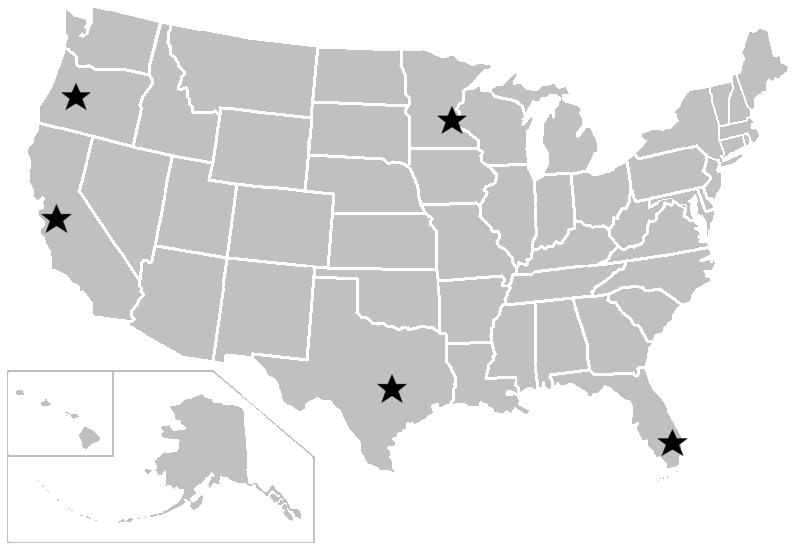
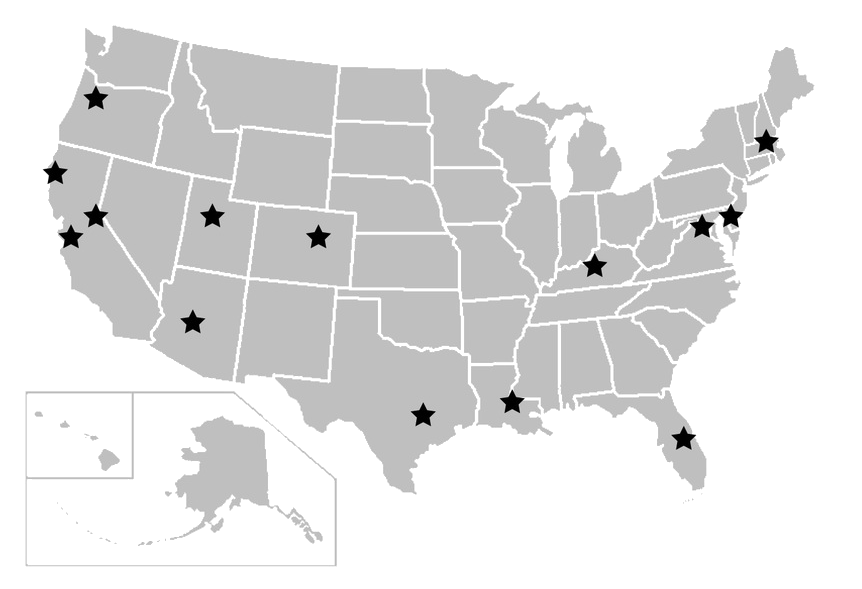
Updated home page with new information and SQL

diff --git a/stylesheets/main.css b/stylesheets/main.css
@@ -1,1 +1,1 @@
-@import url("https://fonts.googleapis.com/css?family=Josefin+Sans");@import url("https://fonts.googleapis.com/css?family=Josefin+Sans");@import url("https://fonts.googleapis.com/css?family=Josefin+Sans");@import url("https://fonts.googleapis.com/css?family=Josefin+Sans");@import url("https://fonts.googleapis.com/css?family=Josefin+Sans");#regform{background-color:white;line-height:20px;align-content:space-between;padding:20px;padding-top:10px;width:600px;margin:0 auto;margin-top:25px;margin-bottom:25px;font-size:16px;z-index:1}#regform form{display:flex;flex-direction:column;justify-content:center;width:85%;margin:auto}#regform p{font-size:1em;text-align:center}#regform label{line-height:30px;margin-right:4px;font-size:16px}#regform input,#regform option,#regform select{width:100%;height:20px}#regform input[type=submit]{width:40%;height:50px;margin:auto;margin-top:30px}#regform #title{color:black;font-size:20px;position:absolute}#regform input[type=textarea]{height:100px}#regtitle{font-size:30px;text-align:center;display:flex;flex-direction:column;justify-content:center;margin-bottom:30px}#regtitle p{font-size:16px;margin:0}#reg_main_content{height:auto;padding-bottom:100px}#pay{width:100px;height:auto;margin:20px;cursor:pointer}.button{color:#0d2063;background-color:#faf7f5;border-radius:6px;border:solid gainsboro 2px;font-family:'Josefin Sans', sans-serif;font-size:20px;padding:5px;padding-top:10px;margin-top:10px}body{font-family:'Josefin Sans', sans-serif}strong{font-weight:bold;color:black}#schedule_main_content{width:800px;height:2300px;margin-left:100px}#schedule_main_content p{font-size:.75em;text-align:left}#schedule_main_content table{border-spacing:0px;width:100%;border:solid black 1px}#schedule_main_content td{width:700px;height:auto;padding-left:15px;padding-right:25px;text-align:left;font-size:.5em;border:solid black 1px}#schedule_main_content h4{color:#0d2063}a{text-decoration:none;color:#0d2063}a:visited{color:#0d2063}#anchor_bar{font-family:'Josefin Sans', sans-serif;font-size:25.5px;float:right;margin-right:150px;margin-left:100px;margin-top:120px;margin-bottom:50px;color:#0d2063}#scheduletitle{font-size:30px;text-align:left}#headspace{margin-top:0px;border:solid #faf7f5 1px}#schedule_main_content{height:auto;padding-bottom:100px}#schedule_main_content table{width:500px;height:200px;text-align:center}#schedule_main_content table td{padding:5px}#register_button{color:white;padding:10px;padding-bottom:5px;background-color:#0d2063;border:none}h4{text-transform:uppercase}body{font-family:'Josefin Sans', sans-serif}.item{height:auto}.item p{margin-left:5px}.price{display:flex;flex-direction:row;align-items:center;height:40px}.email{display:flex;flex-direction:column;justify-content:space-around;align-items:center;height:100px;padding:0px !important}.email input{height:20px;width:150px;margin-left:5px}.email h4{margin:0px !important}.quantity{height:40px;display:flex;flex-direction:row;align-items:center}.quantity input{height:30px;width:100%;margin-left:5px}.button2{color:#0d2063;background-color:white;border-radius:6px;border:solid gainsboro 2px;font-family:'Josefin Sans', sans-serif;font-size:20px;padding:5px;padding-top:10px;margin-top:10px}#store-wrap{display:flex;flex-direction:row;justify-content:center;text-align:center}#store_main_content{min-width:650px;max-width:800px;height:auto;margin-left:100px;display:flex;flex-direction:column;padding-bottom:100px}#store_main_content p{font-size:.75em;text-align:left}#store_main_content h4{color:#0d2063}#store_main_content form p{text-align:center}.store-images-container{height:auto;display:flex;flex-direction:row;width:100%;justify-content:space-between;flex-wrap:wrap}.store-img{background-color:#0d2063;height:200px;width:200px;background-position:center;background-repeat:no-repeat;background-size:contain}.store-img img{height:180px;width:180px;margin:10px}body{font-family:'Josefin Sans', sans-serif}#gallery_main_content{margin-left:100px;min-width:650px;max-width:800px;height:auto;margin-left:100px}#gallery_form{width:500px;margin:auto;margin-top:10px;margin-bottom:30px;margin-right:500px;padding:20px;background-color:white;float:left;display:none;font-size:.7em;line-height:30px}#gallery_images{width:960px;height:auto;padding:0px;background-color:#faf7f5}#gallery_images .camp_images{width:960px;height:auto;float:left}#gallery_images .camp_images p{width:400px;height:auto;margin:0px;float:left;font-size:.6em;margin-bottom:10px}#gallery_images .camp_images p img{width:380px;height:auto;margin:0px}.button{color:#0d2063;background-color:#faf7f5;border-radius:6px;border:solid gainsboro 2px;font-family:'Josefin Sans', sans-serif;font-size:20px;padding:5px;padding-top:10px;margin-top:10px}.button2{color:#0d2063;background-color:white;border-radius:6px;border:solid gainsboro 2px;font-family:'Josefin Sans', sans-serif;font-size:20px;padding:5px;padding-top:10px;margin-top:10px}body{font-family:'Josefin Sans', sans-serif}#store_container{margin-bottom:0px}#conf_main_content{display:flex;flex-direction:row;justify-content:space-around;align-items:flex-start;padding-top:25px;padding-left:0px;font-size:16px;max-width:1100px;margin:auto;height:auto;padding-bottom:100px}#item_print_header{font-weight:bold}.total{border-top:1px solid grey;margin-top:20px}.item_print{display:flex;flex-direction:row;justify-content:space-between;width:100%;height:40px}.item_print div{display:flex;flex-direction:row;margin-right:-40px}.item_print div p{margin-right:40px}.order-confirm p{text-align:right}.cart-items p{text-align:left}.billing,.order-confirm{min-height:600px;width:400px;background-color:white;line-height:20px;align-content:space-between;padding:20px;padding-top:10px;display:flex;flex-direction:column;justify-content:center}.billing label,.order-confirm label{line-height:20px;margin-right:4px;font-size:16px}.billing input,.order-confirm input{width:100%;height:20px}.billing input[type=submit],.order-confirm input[type=submit]{width:40%;height:50px;margin:auto;margin-top:30px}.billing{justify-content:flex-start}body{font-family:'Josefin Sans', sans-serif}#forum_main_content{min-width:650px;max-width:800px;height:auto;margin-left:100px;display:flex;flex-direction:column;height:auto;padding-bottom:100px}#forum_main_content p{font-size:.75em;text-align:left}#forum_main_content h4{color:#0d2063;line-height:1px}#forum_main_content h5{line-height:1px}#forum_main_content input{line-height:20px}#forum_main_content textarea{margin-top:0px}#forum_main_content .rating_fonts{font:19px/36px 'WebSymbolsRegular', sans-serif;display:inline;color:#202124;text-shadow:1px 1px 0px #323049;cursor:pointer}#forum_main_content div.stars{width:270px;display:inline-block}#forum_main_content .stars{width:100px;display:inline-block;float:right}#forum_main_content input.star{display:none}#forum_main_content label.star{float:right;padding:10px;font-size:36px;color:#444;transition:all .2s}#forum_main_content input.star:checked ~ label.star:before{content:'\f005';color:#FD4;transition:all .25s}#forum_main_content input.star-5:checked ~ label.star:before{color:#FE7;text-shadow:0 0 20px #952}#forum_main_content input.star-1:checked ~ label.star:before{color:#F62}#forum_main_content label.star:hover{transform:rotate(-15deg) scale(1.3)}#forum_main_content label.star:before{content:'\f006';font-family:FontAwesome}#forum_main_content .button2{color:#0d2063;background-color:white;border-radius:6px;border:solid gainsboro 2px;font-family:'Josefin Sans', sans-serif;font-size:20px;padding:5px;padding-top:10px;margin-top:10px}#forum_submit_content{min-width:650px;max-width:800px;height:auto;margin-left:20px;display:flex;flex-direction:column;height:auto;padding-bottom:100px}#forum_submit_content p{font-size:.75em;text-align:left}#forum_submit_content h4{color:#0d2063;line-height:1px}#forum_submit_content h5{line-height:1px}#forum_submit_content .rating_fonts{font:19px/36px 'WebSymbolsRegular', sans-serif;display:inline;color:#202124;text-shadow:1px 1px 0px #323049;cursor:pointer}#forum_submit_content div.stars{margin-left:-50px;width:270px;display:inline-block}#forum_submit_content .stars{width:100px;display:inline-block;float:right}#forum_submit_content input.star{display:none}#forum_submit_content label.star{float:right;padding:10px;font-size:30px;color:#444;transition:all .2s}#forum_submit_content input.star:checked ~ label.star:before{content:'\f005';color:#FD4;transition:all .25s}#forum_submit_content input.star-5:checked ~ label.star:before{color:#FE7;text-shadow:0 0 20px #952}#forum_submit_content input.star-1:checked ~ label.star:before{color:#F62}#forum_submit_content label.star:hover{transform:rotate(0deg) scale(1)}#forum_submit_content label.star:before{content:'\f006';font-family:FontAwesome}#forum_submit_content .reviewer_info{font-size:15px}#login{margin:auto;display:flex;flex-direction:row;justify-content:center;align-items:center;height:600px}#login form{padding:10px;background-color:white;height:auto;width:350px;display:flex;flex-direction:column;justify-content:center;align-items:center;padding-bottom:30px}#login form p{width:100%;display:flex;flex-direction:row;justify-content:center}#login form p input[type="text"],#login form p input[type="password"]{width:200px}#login a{padding-top:20px}#login{height:800px}#login-schedule{min-height:600px;height:auto;background-color:white;margin:20px;padding:20px}#login-schedule span{font-style:italic;color:black}#schedule-img{height:300px;border:1px solid red;width:auto;background-image:url(../schedule/schedule.png);background-position:center;background-repeat:no-repeat;background-size:contain}#btn{color:#0d2063;background-color:#faf7f5;border-radius:6px;border:solid gainsboro 2px;font-family:'Josefin Sans', sans-serif;font-size:20px;padding:5px;padding-top:10px;margin-top:10px}h2{color:#0d2063}body{padding-left:100px;padding-right:100px}.main_container{min-width:1100px;max-width:1600px;margin:auto;background-color:#faf7f5;margin-bottom:100px}#logo{float:left;height:40px;width:auto;margin-left:7px}#banner{position:relative}#menubar{width:100%;height:60px;background-color:#0d2063;color:#0d2063;font-size:20px;border-top-left-radius:3px;border-top-right-radius:3px;display:flex;justify-content:space-between;align-items:center}#menubar table{float:right;display:flex;justify-content:flex-end;border-spacing:5px;margin-left:15px;margin-right:15px;vertical-align:center}#menubar td{padding:10px;border-radius:3px;border-width:1.5px;border-spacing:20px;text-decoration-line:underline}#menubar a{color:white;text-decoration:none}#footer{width:100%;height:65px;background-color:#0d2063;color:#0d2063;position:relative;z-index:2;font-size:14px;display:flex;justify-content:space-between}#footer #right-footer{display:flex;justify-content:flex-end;align-items:center;border-spacing:5px}#footer #right-footer img{height:30px;width:auto;margin:5px;padding-top:0px;filter:invert(100%);padding-left:15px}#footer #right-footer td{padding-top:0px;border-radius:3px;border-width:1.5px;border-spacing:20px;text-decoration-line:underline;vertical-align:center}#footer #left-footer{display:flex;justify-content:center;align-items:center}#footer #left-footer a{color:white;text-decoration:none;padding-top:0px;margin-left:10px}#footer #left-footer img{height:40px;width:auto;margin:5px;padding-top:0px;padding-left:10px}#headerpic{width:100%;height:auto;vertical-align:bottom}#tagline{width:100%;text-align:center;font-size:30px;padding:5px;padding-top:20px;color:black;margin:0}#mission{width:800px;font-size:20px;background-color:#fff;margin-left:auto;margin-right:auto;margin-top:20px;padding:20px;padding-top:0px;padding-bottom:5px;text-align:justify}#title{clear:center;font-size:10vw;text-align:center;color:white;position:absolute;bottom:0%;left:5%;top:30%;vertical-align:bottom;padding:0}.main_content{background-color:#faf7f5;width:100%;height:1000px;font-size:30px}.main_content table{border-spacing:20px;width:880px;margin:auto}.main_content td{width:250px;height:250px;padding:10px;background-color:#fff;text-align:center;font-size:30px}.main_content h1{color:#0d2063}.main_content h4{font-size:.85em}#locationswrapper{margin-left:auto;margin-right:auto}#locationswrapper li{font-size:25px;line-height:25px;text-align:left}#locationswrapper td{background-color:#faf7f5;text-align:left;color:#0d2063}#locationswrapper img{width:550px}#list_container{background-color:white;padding:25px;padding-left:70px;padding-top:30px;padding-bottom:30px;border-radius:100%;width:150px}#map{width:600px;margin-left:auto;margin-right:auto;padding:0px;text-align:justify}@media only screen and (max-width: 1100px){#title{font-size:150px}}
+@import url("https://fonts.googleapis.com/css?family=Josefin+Sans");@import url("https://fonts.googleapis.com/css?family=Josefin+Sans");@import url("https://fonts.googleapis.com/css?family=Josefin+Sans");@import url("https://fonts.googleapis.com/css?family=Josefin+Sans");@import url("https://fonts.googleapis.com/css?family=Josefin+Sans");#regform{background-color:white;line-height:20px;align-content:space-between;padding:20px;padding-top:10px;width:600px;margin:0 auto;margin-top:25px;margin-bottom:25px;font-size:16px;z-index:1}#regform form{display:flex;flex-direction:column;justify-content:center;width:85%;margin:auto}#regform p{font-size:1em;text-align:center}#regform label{line-height:30px;margin-right:4px;font-size:16px}#regform input,#regform option,#regform select{width:100%;height:20px}#regform input[type=submit]{width:40%;height:50px;margin:auto;margin-top:30px}#regform #title{color:black;font-size:20px;position:absolute}#regform input[type=textarea]{height:100px}#regtitle{font-size:30px;text-align:center;display:flex;flex-direction:column;justify-content:center;margin-bottom:30px}#regtitle p{font-size:16px;margin:0}#reg_main_content{height:auto;padding-bottom:100px}#pay{width:100px;height:auto;margin:20px;cursor:pointer}.button{color:#0d2063;background-color:#faf7f5;border-radius:6px;border:solid gainsboro 2px;font-family:'Josefin Sans', sans-serif;font-size:20px;padding:5px;padding-top:10px;margin-top:10px}body{font-family:'Josefin Sans', sans-serif}strong{font-weight:bold;color:black}#schedule_main_content{width:800px;height:2300px;margin-left:100px}#schedule_main_content p{font-size:.75em;text-align:left}#schedule_main_content table{border-spacing:0px;width:100%;border:solid black 1px}#schedule_main_content td{width:700px;height:auto;padding-left:15px;padding-right:25px;text-align:left;font-size:.5em;border:solid black 1px}#schedule_main_content h4{color:#0d2063}a{text-decoration:none;color:#0d2063}a:visited{color:#0d2063}#anchor_bar{font-family:'Josefin Sans', sans-serif;font-size:25.5px;float:right;margin-right:150px;margin-left:100px;margin-top:120px;margin-bottom:50px;color:#0d2063}#scheduletitle{font-size:30px;text-align:left}#headspace{margin-top:0px;border:solid #faf7f5 1px}#schedule_main_content{height:auto;padding-bottom:100px}#schedule_main_content table{width:500px;height:200px;text-align:center}#schedule_main_content table td{padding:5px}#register_button{color:white;padding:10px;padding-bottom:5px;background-color:#0d2063;border:none}h4{text-transform:uppercase}body{font-family:'Josefin Sans', sans-serif}.item{height:auto}.item p{margin-left:5px}.price{display:flex;flex-direction:row;align-items:center;height:40px}.email{display:flex;flex-direction:column;justify-content:space-around;align-items:center;height:100px;padding:0px !important}.email input{height:20px;width:150px;margin-left:5px}.email h4{margin:0px !important}.quantity{height:40px;display:flex;flex-direction:row;align-items:center}.quantity input{height:30px;width:100%;margin-left:5px}.button2{color:#0d2063;background-color:white;border-radius:6px;border:solid gainsboro 2px;font-family:'Josefin Sans', sans-serif;font-size:20px;padding:5px;padding-top:10px;margin-top:10px}#store-wrap{display:flex;flex-direction:row;justify-content:center;text-align:left}#store_main_content{min-width:650px;max-width:800px;height:auto;margin-left:100px;display:flex;flex-direction:column;padding-bottom:100px}#store_main_content p{font-size:.75em;text-align:left}#store_main_content h4{color:#0d2063}#store_main_content form p{text-align:center}.store-images-container{height:auto;display:flex;flex-direction:row;width:100%;justify-content:space-between;flex-wrap:wrap}.store-img{background-color:#0d2063;height:200px;width:200px;background-position:center;background-repeat:no-repeat;background-size:contain}.store-img img{height:180px;width:180px;margin:10px}body{font-family:'Josefin Sans', sans-serif}#gallery_main_content{margin-left:100px;min-width:650px;max-width:800px;height:auto;margin-left:100px}#gallery_form{width:500px;margin:auto;margin-top:10px;margin-bottom:30px;margin-right:500px;padding:20px;background-color:white;float:left;display:none;font-size:.7em;line-height:30px}#gallery_images{width:960px;height:auto;padding:0px;background-color:#faf7f5}#gallery_images .camp_images{width:960px;height:auto;float:left}#gallery_images .camp_images p{width:400px;height:auto;margin:0px;float:left;font-size:.6em;margin-bottom:10px}#gallery_images .camp_images p img{width:380px;height:auto;margin:0px}.button{color:#0d2063;background-color:#faf7f5;border-radius:6px;border:solid gainsboro 2px;font-family:'Josefin Sans', sans-serif;font-size:20px;padding:5px;padding-top:10px;margin-top:10px}.button2{color:#0d2063;background-color:white;border-radius:6px;border:solid gainsboro 2px;font-family:'Josefin Sans', sans-serif;font-size:20px;padding:5px;padding-top:10px;margin-top:10px}body{font-family:'Josefin Sans', sans-serif}#store_container{margin-bottom:0px}#conf_main_content{display:flex;flex-direction:row;justify-content:space-around;align-items:flex-start;padding-top:25px;padding-left:0px;font-size:16px;max-width:1100px;margin:auto;height:auto;padding-bottom:100px}#item_print_header{font-weight:bold}.total{border-top:1px solid grey;margin-top:20px}.item_print{display:flex;flex-direction:row;justify-content:space-between;width:100%;height:40px}.item_print div{display:flex;flex-direction:row;margin-right:-40px}.item_print div p{margin-right:40px}.order-confirm p{text-align:right}.cart-items p{text-align:left}.billing,.order-confirm{min-height:600px;width:400px;background-color:white;line-height:20px;align-content:space-between;padding:20px;padding-top:10px;display:flex;flex-direction:column;justify-content:center}.billing label,.order-confirm label{line-height:20px;margin-right:4px;font-size:16px}.billing input,.order-confirm input{width:100%;height:20px}.billing input[type=submit],.order-confirm input[type=submit]{width:40%;height:50px;margin:auto;margin-top:30px}.billing{justify-content:flex-start}body{font-family:'Josefin Sans', sans-serif}#forum_main_content{min-width:650px;max-width:800px;height:auto;margin-left:100px;display:flex;flex-direction:column;height:auto;padding-bottom:100px}#forum_main_content p{font-size:.75em;text-align:left}#forum_main_content h4{color:#0d2063;line-height:1px}#forum_main_content h5{line-height:1px}#forum_main_content input{line-height:20px}#forum_main_content textarea{margin-top:0px}#forum_main_content .rating_fonts{font:19px/36px 'WebSymbolsRegular', sans-serif;display:inline;color:#202124;text-shadow:1px 1px 0px #323049;cursor:pointer}#forum_main_content div.stars{width:270px;display:inline-block}#forum_main_content .stars{width:100px;display:inline-block;float:right}#forum_main_content input.star{display:none}#forum_main_content label.star{float:right;padding:10px;font-size:36px;color:#444;transition:all .2s}#forum_main_content input.star:checked ~ label.star:before{content:'\f005';color:#FD4;transition:all .25s}#forum_main_content input.star-5:checked ~ label.star:before{color:#FE7;text-shadow:0 0 20px #952}#forum_main_content input.star-1:checked ~ label.star:before{color:#F62}#forum_main_content label.star:hover{transform:rotate(-15deg) scale(1.3)}#forum_main_content label.star:before{content:'\f006';font-family:FontAwesome}#forum_main_content .button2{color:#0d2063;background-color:white;border-radius:6px;border:solid gainsboro 2px;font-family:'Josefin Sans', sans-serif;font-size:20px;padding:5px;padding-top:10px;margin-top:10px}#forum_submit_content{min-width:650px;max-width:800px;height:auto;margin-left:20px;display:flex;flex-direction:column;height:auto;padding-bottom:100px}#forum_submit_content p{font-size:.75em;text-align:left}#forum_submit_content h4{color:#0d2063;line-height:1px}#forum_submit_content h5{line-height:1px}#forum_submit_content .rating_fonts{font:19px/36px 'WebSymbolsRegular', sans-serif;display:inline;color:#202124;text-shadow:1px 1px 0px #323049;cursor:pointer}#forum_submit_content div.stars{margin-left:-50px;width:270px;display:inline-block}#forum_submit_content .stars{width:100px;display:inline-block;float:right}#forum_submit_content input.star{display:none}#forum_submit_content label.star{float:right;padding:10px;font-size:30px;color:#444;transition:all .2s}#forum_submit_content input.star:checked ~ label.star:before{content:'\f005';color:#FD4;transition:all .25s}#forum_submit_content input.star-5:checked ~ label.star:before{color:#FE7;text-shadow:0 0 20px #952}#forum_submit_content input.star-1:checked ~ label.star:before{color:#F62}#forum_submit_content label.star:hover{transform:rotate(0deg) scale(1)}#forum_submit_content label.star:before{content:'\f006';font-family:FontAwesome}#forum_submit_content .reviewer_info{font-size:15px}#login{margin:auto;display:flex;flex-direction:row;justify-content:center;align-items:center;height:600px}#login form{padding:10px;background-color:white;height:auto;width:350px;display:flex;flex-direction:column;justify-content:center;align-items:center;padding-bottom:30px}#login form p{width:100%;display:flex;flex-direction:row;justify-content:center}#login form p input[type="text"],#login form p input[type="password"]{width:200px}#login a{padding-top:20px}#login{height:800px}#login-schedule{min-height:600px;height:auto;background-color:white;margin:20px;padding:20px}#login-schedule span{font-style:italic;color:black}#schedule-img{height:300px;border:1px solid red;width:auto;background-image:url(../schedule/schedule.png);background-position:center;background-repeat:no-repeat;background-size:contain}#btn{color:#0d2063;background-color:#faf7f5;border-radius:6px;border:solid gainsboro 2px;font-family:'Josefin Sans', sans-serif;font-size:20px;padding:5px;padding-top:10px;margin-top:10px}h2{color:#0d2063}body{padding-left:100px;padding-right:100px}.main_container{min-width:1100px;max-width:1600px;margin:auto;background-color:#faf7f5;margin-bottom:100px}#logo{float:left;height:40px;width:auto;margin-left:7px}#banner{position:relative}#menubar{width:100%;height:60px;background-color:#0d2063;color:#0d2063;font-size:20px;border-top-left-radius:3px;border-top-right-radius:3px;display:flex;justify-content:space-between;align-items:center}#menubar table{float:right;display:flex;justify-content:flex-end;border-spacing:5px;margin-left:15px;margin-right:15px;vertical-align:center}#menubar td{padding:10px;border-radius:3px;border-width:1.5px;border-spacing:20px;text-decoration-line:underline}#menubar a{color:white;text-decoration:none}#footer{width:100%;height:65px;background-color:#0d2063;color:#0d2063;position:relative;z-index:2;font-size:14px;display:flex;justify-content:space-between}#footer #right-footer{display:flex;justify-content:flex-end;align-items:center;border-spacing:5px}#footer #right-footer img{height:30px;width:auto;margin:5px;padding-top:0px;filter:invert(100%);padding-left:15px}#footer #right-footer td{padding-top:0px;border-radius:3px;border-width:1.5px;border-spacing:20px;text-decoration-line:underline;vertical-align:center}#footer #left-footer{display:flex;justify-content:center;align-items:center}#footer #left-footer a{color:white;text-decoration:none;padding-top:0px;margin-left:10px}#footer #left-footer img{height:40px;width:auto;margin:5px;padding-top:0px;padding-left:10px}#headerpic{width:100%;height:auto;vertical-align:bottom}#tagline{width:100%;text-align:center;font-size:30px;padding:5px;padding-top:20px;color:black;margin:0}#mission{width:800px;font-size:20px;background-color:#fff;margin-left:auto;margin-right:auto;margin-top:20px;padding:20px;padding-top:0px;padding-bottom:5px;text-align:justify}#title{clear:center;font-size:10vw;text-align:center;color:white;position:absolute;bottom:0%;left:5%;top:30%;vertical-align:bottom;padding:0}.main_content{background-color:#faf7f5;width:100%;height:auto;font-size:30px}.main_content table{border-spacing:20px;width:880px;margin:auto}.main_content td{width:250px;height:250px;padding:10px;background-color:#fff;text-align:center;font-size:30px}.main_content h1{color:#0d2063}.main_content h4{font-size:.85em}#locationswrapper{margin-left:auto;margin-right:auto;margin-bottom:100px}#locationswrapper li{font-size:.7em;line-height:25px;text-align:left}#locationswrapper td{background-color:#faf7f5;text-align:left;color:#0d2063}#locationswrapper img{width:550px}#list_container{background-color:white;padding:25px;padding-left:50px;border-radius:10%;width:200px}#map{width:600px;margin-left:auto;margin-right:auto;padding:0px;text-align:justify}@media only screen and (max-width: 1100px){#title{font-size:150px}}

diff --git a/stylesheets/store.css b/stylesheets/store.css
@@ -1,1 +1,1 @@
-@import url("https://fonts.googleapis.com/css?family=Josefin+Sans");body{font-family:'Josefin Sans', sans-serif}.item{height:auto}.item p{margin-left:5px}.price{display:flex;flex-direction:row;align-items:center;height:40px}.email{display:flex;flex-direction:column;justify-content:space-around;align-items:center;height:100px;padding:0px !important}.email input{height:20px;width:150px;margin-left:5px}.email h4{margin:0px !important}.quantity{height:40px;display:flex;flex-direction:row;align-items:center}.quantity input{height:30px;width:100%;margin-left:5px}.button2{color:#0d2063;background-color:white;border-radius:6px;border:solid gainsboro 2px;font-family:'Josefin Sans', sans-serif;font-size:20px;padding:5px;padding-top:10px;margin-top:10px}#store-wrap{display:flex;flex-direction:row;justify-content:center;text-align:center}#store_main_content{min-width:650px;max-width:800px;height:auto;margin-left:100px;display:flex;flex-direction:column;padding-bottom:100px}#store_main_content p{font-size:.75em;text-align:left}#store_main_content h4{color:#0d2063}#store_main_content form p{text-align:center}.store-images-container{height:auto;display:flex;flex-direction:row;width:100%;justify-content:space-between;flex-wrap:wrap}.store-img{background-color:#0d2063;height:200px;width:200px;background-position:center;background-repeat:no-repeat;background-size:contain}.store-img img{height:180px;width:180px;margin:10px}
+@import url("https://fonts.googleapis.com/css?family=Josefin+Sans");body{font-family:'Josefin Sans', sans-serif}.item{height:auto}.item p{margin-left:5px}.price{display:flex;flex-direction:row;align-items:center;height:40px}.email{display:flex;flex-direction:column;justify-content:space-around;align-items:center;height:100px;padding:0px !important}.email input{height:20px;width:150px;margin-left:5px}.email h4{margin:0px !important}.quantity{height:40px;display:flex;flex-direction:row;align-items:center}.quantity input{height:30px;width:100%;margin-left:5px}.button2{color:#0d2063;background-color:white;border-radius:6px;border:solid gainsboro 2px;font-family:'Josefin Sans', sans-serif;font-size:20px;padding:5px;padding-top:10px;margin-top:10px}#store-wrap{display:flex;flex-direction:row;justify-content:center;text-align:left}#store_main_content{min-width:650px;max-width:800px;height:auto;margin-left:100px;display:flex;flex-direction:column;padding-bottom:100px}#store_main_content p{font-size:.75em;text-align:left}#store_main_content h4{color:#0d2063}#store_main_content form p{text-align:center}.store-images-container{height:auto;display:flex;flex-direction:row;width:100%;justify-content:space-between;flex-wrap:wrap}.store-img{background-color:#0d2063;height:200px;width:200px;background-position:center;background-repeat:no-repeat;background-size:contain}.store-img img{height:180px;width:180px;margin:10px}

diff --git a/sass/main.scss b/sass/main.scss
@@ -166,7 +166,7 @@ body{
 .main_content{
     background-color:$body_color;
     width: 100%;
-    height: 1000px;
+    height: auto;
     //font-family: 'Roboto', sans-serif;
     font-size: 30px;
 
@@ -195,9 +195,10 @@ body{
 #locationswrapper{
     margin-left: auto;
     margin-right: auto;
+    margin-bottom: 100px;
 
     li{
-        font-size: 25px;
+        font-size: .7em;
         line-height: 25px;
         text-align: left;
     }
@@ -213,11 +214,9 @@ body{
 #list_container{
     background-color: white;
     padding: 25px;
-    padding-left: 70px;
-    padding-top: 30px;
-    padding-bottom: 30px;
-    border-radius: 100%;
-    width: 150px;
+    padding-left: 50px;
+    border-radius: 10%;
+    width: 200px;
 }
 #map{
     width: 600px;

diff --git a/sass/store.scss b/sass/store.scss
@@ -58,7 +58,7 @@
 	display: flex;
 	flex-direction: row;
 	justify-content: center;
-	text-align: center;
+	text-align: left;
 
 }
 

diff --git a/index.php b/index.php
@@ -66,11 +66,21 @@
                         </td>
                         <td>
                             <ul id="list_container">Locations
-                                <li>San Jose, CA</li>
-                                <li>Eugene, OR</li>
-                                <li>Austin, TX</li>
-                                <li>Minneapolis, MN</li>
-                                <li>Miami, Fl</li>
+                            <?php 
+                                $conn = mysqli_connect("localhost", "fourthreefour", "americo", "educamps");
+                                if (!$conn){
+                                    die("Database connection failed: " . mysqli_connect_error());
+                                }
+                                $campsquery = mysqli_query($conn, "SELECT camp_name, location FROM camp");
+                                if(!campsquery)
+                                {
+                                    die("SQL query failed:\n$campquery\n". mysql_error());
+                                }
+                                while($camp = mysqli_fetch_assoc($campsquery)){
+                            ?>
+                                <li><?= $camp['camp_name'] ?>
+                                <?php } ?>
+                                </li>
                             </ul>
                         </td>
                     </tr>
